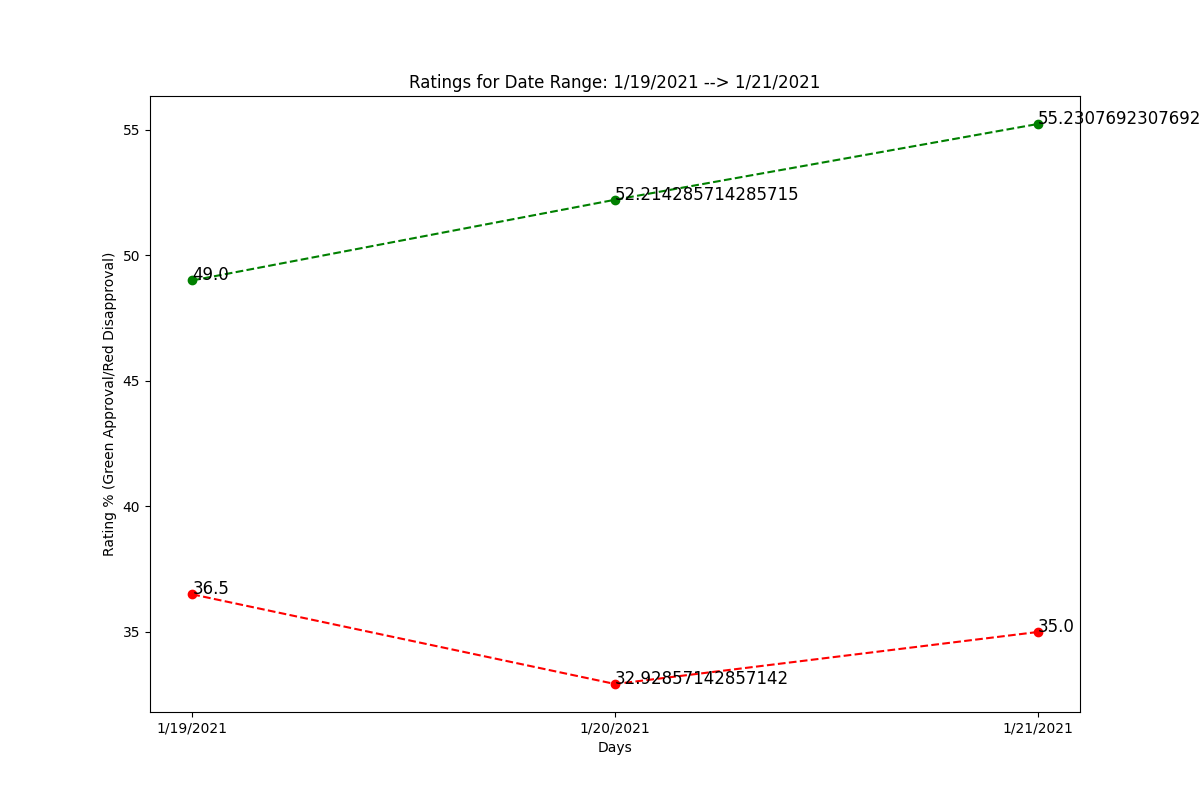
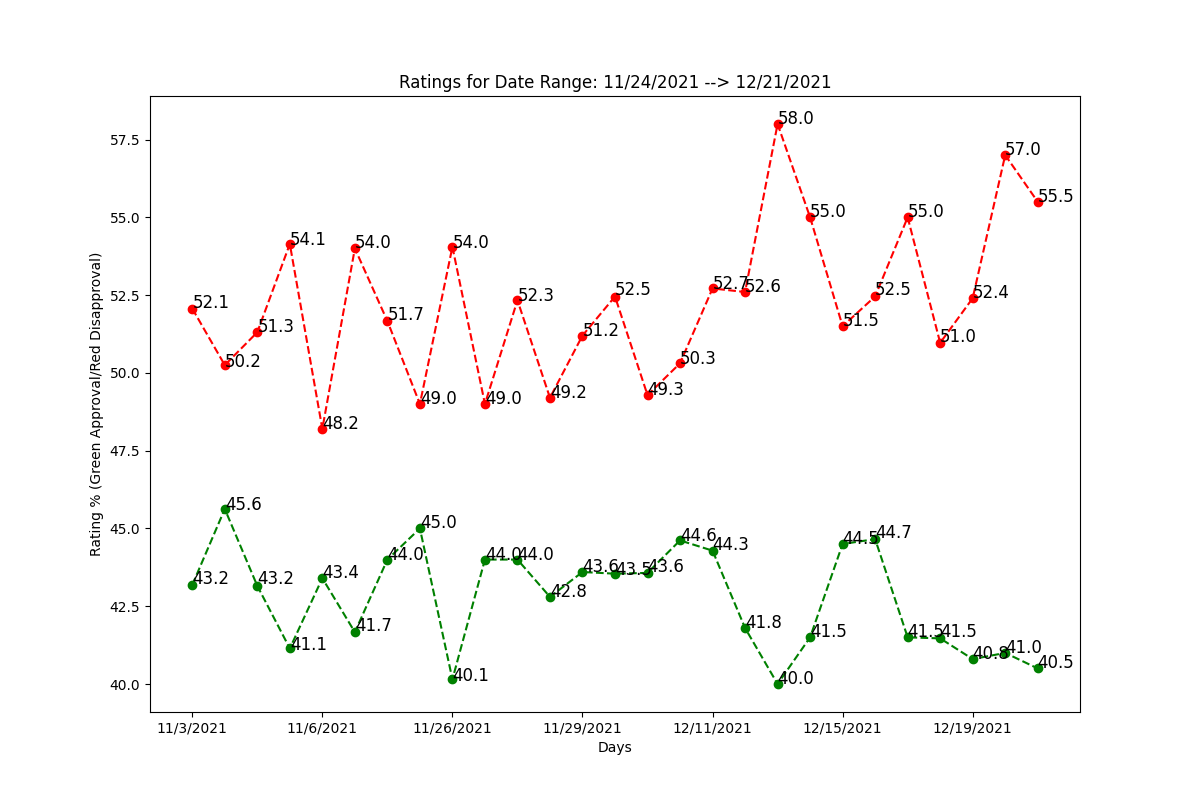
added some more explanation to the insights page

diff --git a/templates/index.html b/templates/index.html
@@ -9,8 +9,12 @@
     <h2>Our Project</h2>
     <div class="container">
         <p>
+            **** Put Database Structure and Table Column Names Here ***
+        </p>   <br>
+        <p>
             Born out of a project for a Yale University course on digital humanities, this website is designed as a user-friendly platform to explore some of the inscriptions found at the Dura-Europos site. All graffiti on the website were included in the second preliminary report from the Excavations at Dura Europos, an as-of-yet un-digitized archaeological report of findings from the Yale-French excavations at the sight from 1928-29. We’ve pulled graffiti from two sites within the city: those inside the walls of Tower 1, next to the Temple of the Palmyrene Gods, and from the Main Gate, also known as the Palmyrene Gate, to the city. We generally term the texts discussed on this website as “graffiti,” meaning words or pictures inscribed not in an official capacity and in public view, although we also freely call them “inscriptions.” This project is restricted to textual graffiti and graffiti in the Greek alphabet (the majority of the graffiti which is present at the Tower and Gate), so all drawings and inscriptions in other languages from Greek are not included. All translations were done by Grace Blaxill, an undergraduate at Yale and Jamie Flynn, a masters student in the History track at Yale. All website design and coding was performed by Kaitlyn Sandor, Lee Chen, and Jakub Bester, undergraduate students at Yale University.
-        </p>      
+        </p>
+
     </div>
 </div>
 

diff --git a/templates/insights.html b/templates/insights.html
@@ -8,7 +8,10 @@
 <h2>Our Project</h2>
     <div class="container">
         <p>
-            This is a demo of generating a random word cloud. Currently, my program pulls the first 100 words from 'https://www.mit.edu/~ecprice/wordlist.10000'
+            First, as an insight to how our website works, I included a demo on the most popular tweet subject from 11/24/2021 to 12/21/2021 in relation to Joe Biden's
+            approval and disapproval rating. The stop words were removed from the tweets to just leave the most important pieces of the subject. As you can see, "build" and "better" were some of the most common subjects of his tweets.
+            This makes sense when considering this was the time the Biden administration was pushing for the Build Back Better Plan. Additionally, you can see his approval rating plummet and disapproval rating increase in December of 2021. This
+            makes sense as it lines up with the first record growth of inlfation article published by the NYT, which was obviously upsetting to American citizens.
         </p>
 
         <img src="./static/images/cloud.png" alt="my plot" style="max-width: 40%">

diff --git a/templates/submitqueries.html b/templates/submitqueries.html
@@ -11,7 +11,7 @@
     <h2>Our Project</h2>
     <div class="container">
         <p>
-            Submit a query to run on our database!
+            Submit a query to run on our database! (Put information here on the table headers again so they know what queries are possible, also include an example query.
         </p>      
     </div>
 </div>

diff --git a/word_cloud.py b/word_cloud.py
@@ -5,6 +5,7 @@ from wordcloud import WordCloud
 import requests
 from nltk.corpus import stopwords
 import string
+import spacy
 
 def get_test_words():
     response = requests.get(
@@ -13,24 +14,24 @@ def get_test_words():
     string_of_words = response.content.decode('utf-8')
     return string_of_words.splitlines()
 
-def bad_word(word):
+def bad_word(word, sw_spacy):
     stop_words = stopwords.words("english")
-    if word not in stop_words:
+    if word not in stop_words and word not in sw_spacy:
         return False
     return True
 
-def get_tweets_date_range(start_date, end_date):
+def get_tweets_date_range(start_date, end_date, sw_spacy):
     con = sqlite3.connect("data.db")
     cursor_object = con.cursor()
-    query = "SELECT tweet FROM tweets WHERE timestamp BETWEEN " + "'" + start_date + "'" + " AND " + "'" + end_date + "'"
+    query = "SELECT tweet_content FROM tweets WHERE tweet_date BETWEEN " + "'" + start_date + "'" + " AND " + "'" + end_date + "'"
     execution_result = cursor_object.execute(query)
     tweets = []
     for tweet in execution_result:
         for word in tweet[0].split(' '):
             word = word.lower()
             new_word = word.translate(str.maketrans('', '', string.punctuation))
-            new_word = new_word.replace("’", '')
-            if len(word) > 1 and new_word == word and not bad_word(word):
+            new_word2 = word.replace("’", '')
+            if len(word) > 1 and new_word == word and new_word2 == word and not bad_word(word, sw_spacy):
                 tweets.append(word)
     return tweets
 

diff --git a/polling_data.py b/polling_data.py
@@ -1,6 +1,9 @@
 import sqlite3
-
+import matplotlib.dates as mdates
 import matplotlib.pyplot as plt
+import datetime as dt
+import numpy as np
+import matplotlib.ticker as mticker
 
 def get_dates_and_approval(first_date=None, second_date=None):
     con = sqlite3.connect("data.db")
@@ -37,18 +40,21 @@ def graph_and_save_results(dates, approval_ratings, disapproval_ratings, img_nam
     plt.xlabel('Days')
     plt.ylabel('Rating % (Green Approval/Red Disapproval)')
 
+    myLocator = mticker.MultipleLocator(4)
+    ax.xaxis.set_major_locator(myLocator)
+
     if approval_ratings:
         x_axis = dates
         y_axis = approval_ratings
         plt.plot(x_axis, y_axis, linestyle='--', marker='o', color='g', label='average approval rating/day with marker')
         for index in range(len(x_axis)):
-            ax.text(x_axis[index], y_axis[index], y_axis[index], size=12)
+            ax.text(x_axis[index], round(y_axis[index], 1), round(y_axis[index], 1), size=12)
 
     if disapproval_ratings:
         x_axis = dates
         y_axis = disapproval_ratings
         plt.plot(x_axis, y_axis, linestyle='--', marker='o', color='r', label='average approval rating/day with marker')
         for index in range(len(x_axis)):
-            ax.text(x_axis[index], y_axis[index], y_axis[index], size=12)
+            ax.text(x_axis[index], round(y_axis[index], 1), round(y_axis[index], 1), size=12)
 
     plt.savefig('./static/images/' + img_name + '.png')

diff --git a/app.py b/app.py
@@ -6,7 +6,7 @@ from flask_session import Session
 import matplotlib
 from word_cloud import *
 from polling_data import *
-
+sw_spacy = []
 # Configure application
 app = Flask(__name__)
 
@@ -32,10 +32,10 @@ def index():
 
 @app.route("/insights", methods=["GET", "POST"])
 def insights():
-    list_of_words = get_tweets_date_range('10/24/2007', '4/9/2012')
+    list_of_words = get_tweets_date_range('11/24/2021', '12/21/2021', sw_spacy)
     create_save_word_cloud_from_dirty_tweets(list_of_words, 'cloud')
-    output = get_dates_and_approval('1/19/2021', '1/21/2021')
-    graph_and_save_results(output[0], output[1], output[2], 'polling_data', "1/19/2021 --> 1/21/2021")
+    output = get_dates_and_approval('11/24/2021', '12/21/2021')
+    graph_and_save_results(output[0], output[1], output[2], 'polling_data', "11/24/2021 --> 12/21/2021")
     return render_template('insights.html')
 
 @app.route("/about",  methods=["GET", "POST"])
@@ -74,5 +74,7 @@ def data():
 
 if __name__=="__main__":
     matplotlib.use('Agg')
+    en = spacy.load('en_core_web_sm')
+    sw_spacy = en.Defaults.stop_words
     app.run(host=os.getenv('IP', '0.0.0.0'),
             port=int(os.getenv('PORT', 8000)))
